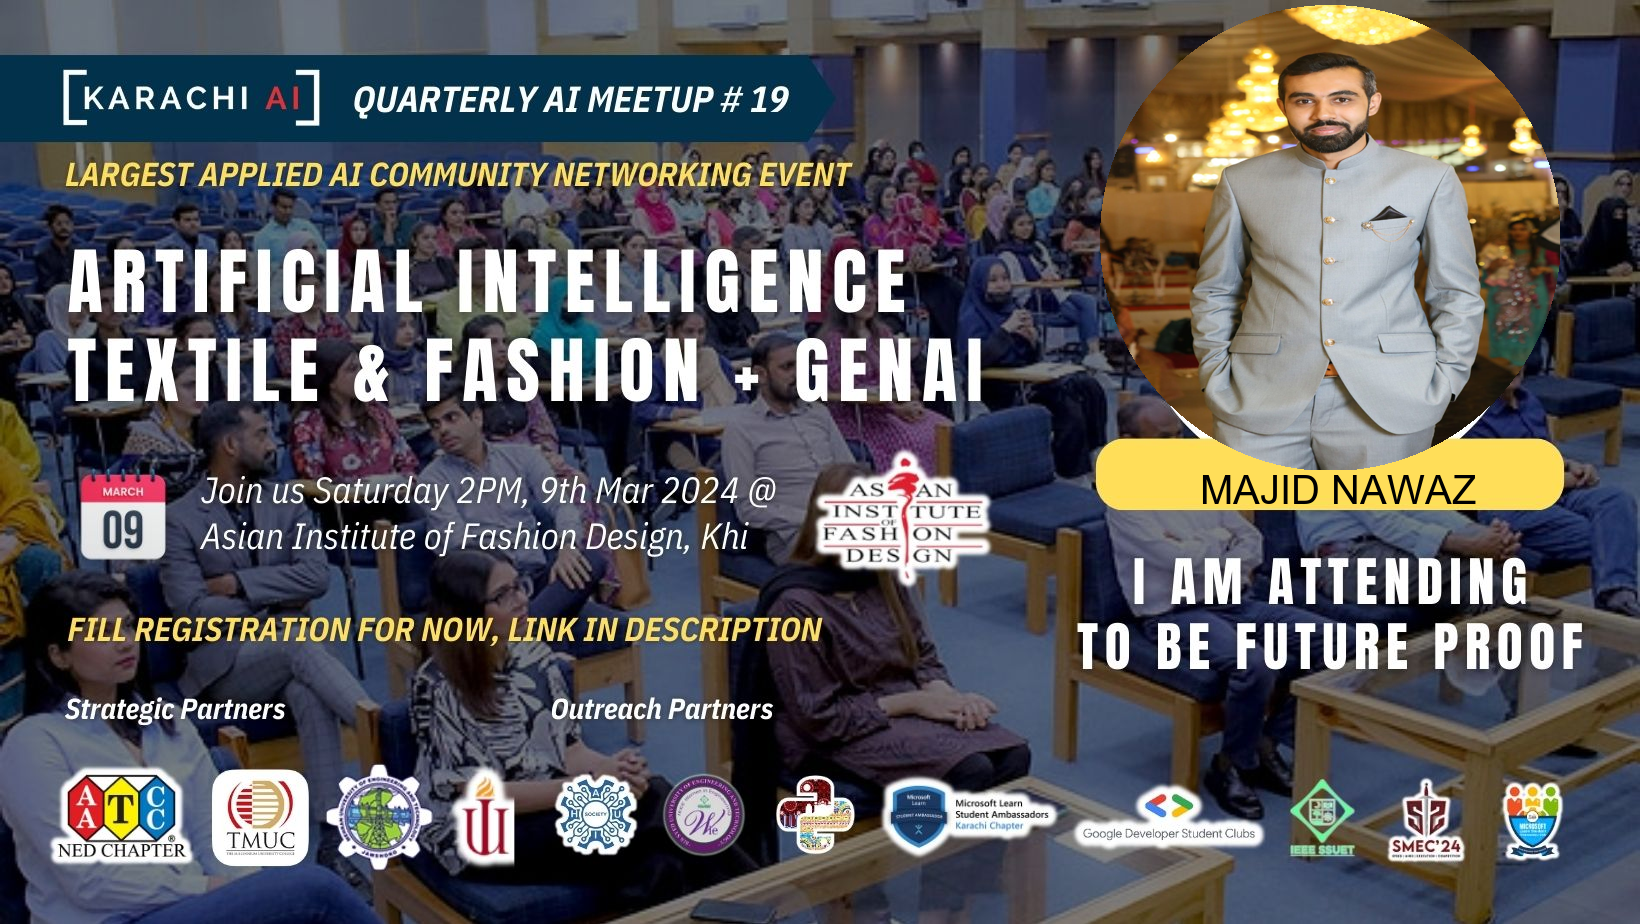
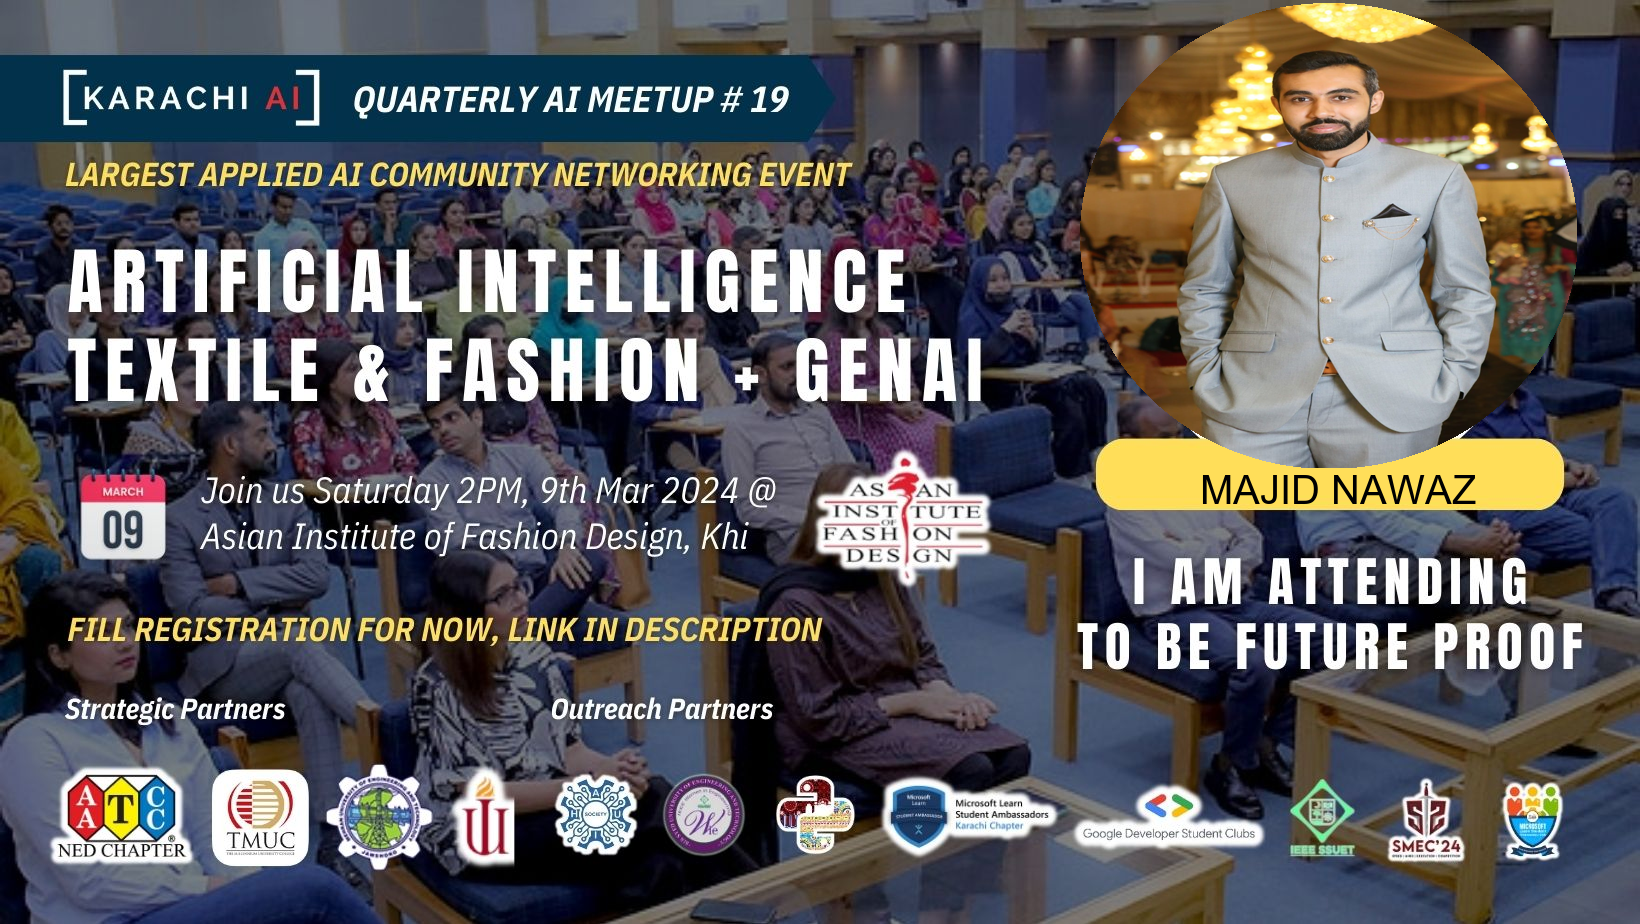
third commit

Changed region(s): [[0.653, 0.0, 0.964, 0.5152]]

diff --git a/app3_download.py b/app3_download.py
@@ -92,7 +92,7 @@ def add_image_to_certificate(certificate_path, uploaded_image, text, output_path
     uploaded_img = Image.open(uploaded_image)
     
     # Resize the uploaded image
-    uploaded_img = uploaded_img.resize((460, 465))  # Change dimensions as needed
+    uploaded_img = uploaded_img.resize((497, 465))  # Change dimensions as needed
     
     # Create a round mask
     mask = Image.new("L", uploaded_img.size, 0)
@@ -103,7 +103,7 @@ def add_image_to_certificate(certificate_path, uploaded_image, text, output_path
     uploaded_img.putalpha(mask)
     
     # Calculate the position to place the uploaded image
-    position = (1100, 5)  # Change position as needed
+    position = (1080, 3)  # Change position as needed
     
     # Paste the uploaded image onto the certificate image
     certificate_img.paste(uploaded_img, position, uploaded_img)

diff --git a/round_image.py b/round_image.py
@@ -10,7 +10,7 @@ def add_image_to_certificate(certificate_path, uploaded_image, text, output_path
     uploaded_img = Image.open(uploaded_image)
     
     # Resize the uploaded image
-    uploaded_img = uploaded_img.resize((460, 465))  # Change dimensions as needed
+    uploaded_img = uploaded_img.resize((497, 465))  # Change dimensions as needed
     
     # Create a round mask
     mask = Image.new("L", uploaded_img.size, 0)
@@ -21,7 +21,7 @@ def add_image_to_certificate(certificate_path, uploaded_image, text, output_path
     uploaded_img.putalpha(mask)
     
     # Calculate the position to place the uploaded image
-    position = (1100, 5)  # Change position as needed
+    position = (1080, 3)  # Change position as needed
     
     # Paste the uploaded image onto the certificate image
     certificate_img.paste(uploaded_img, position, uploaded_img)
